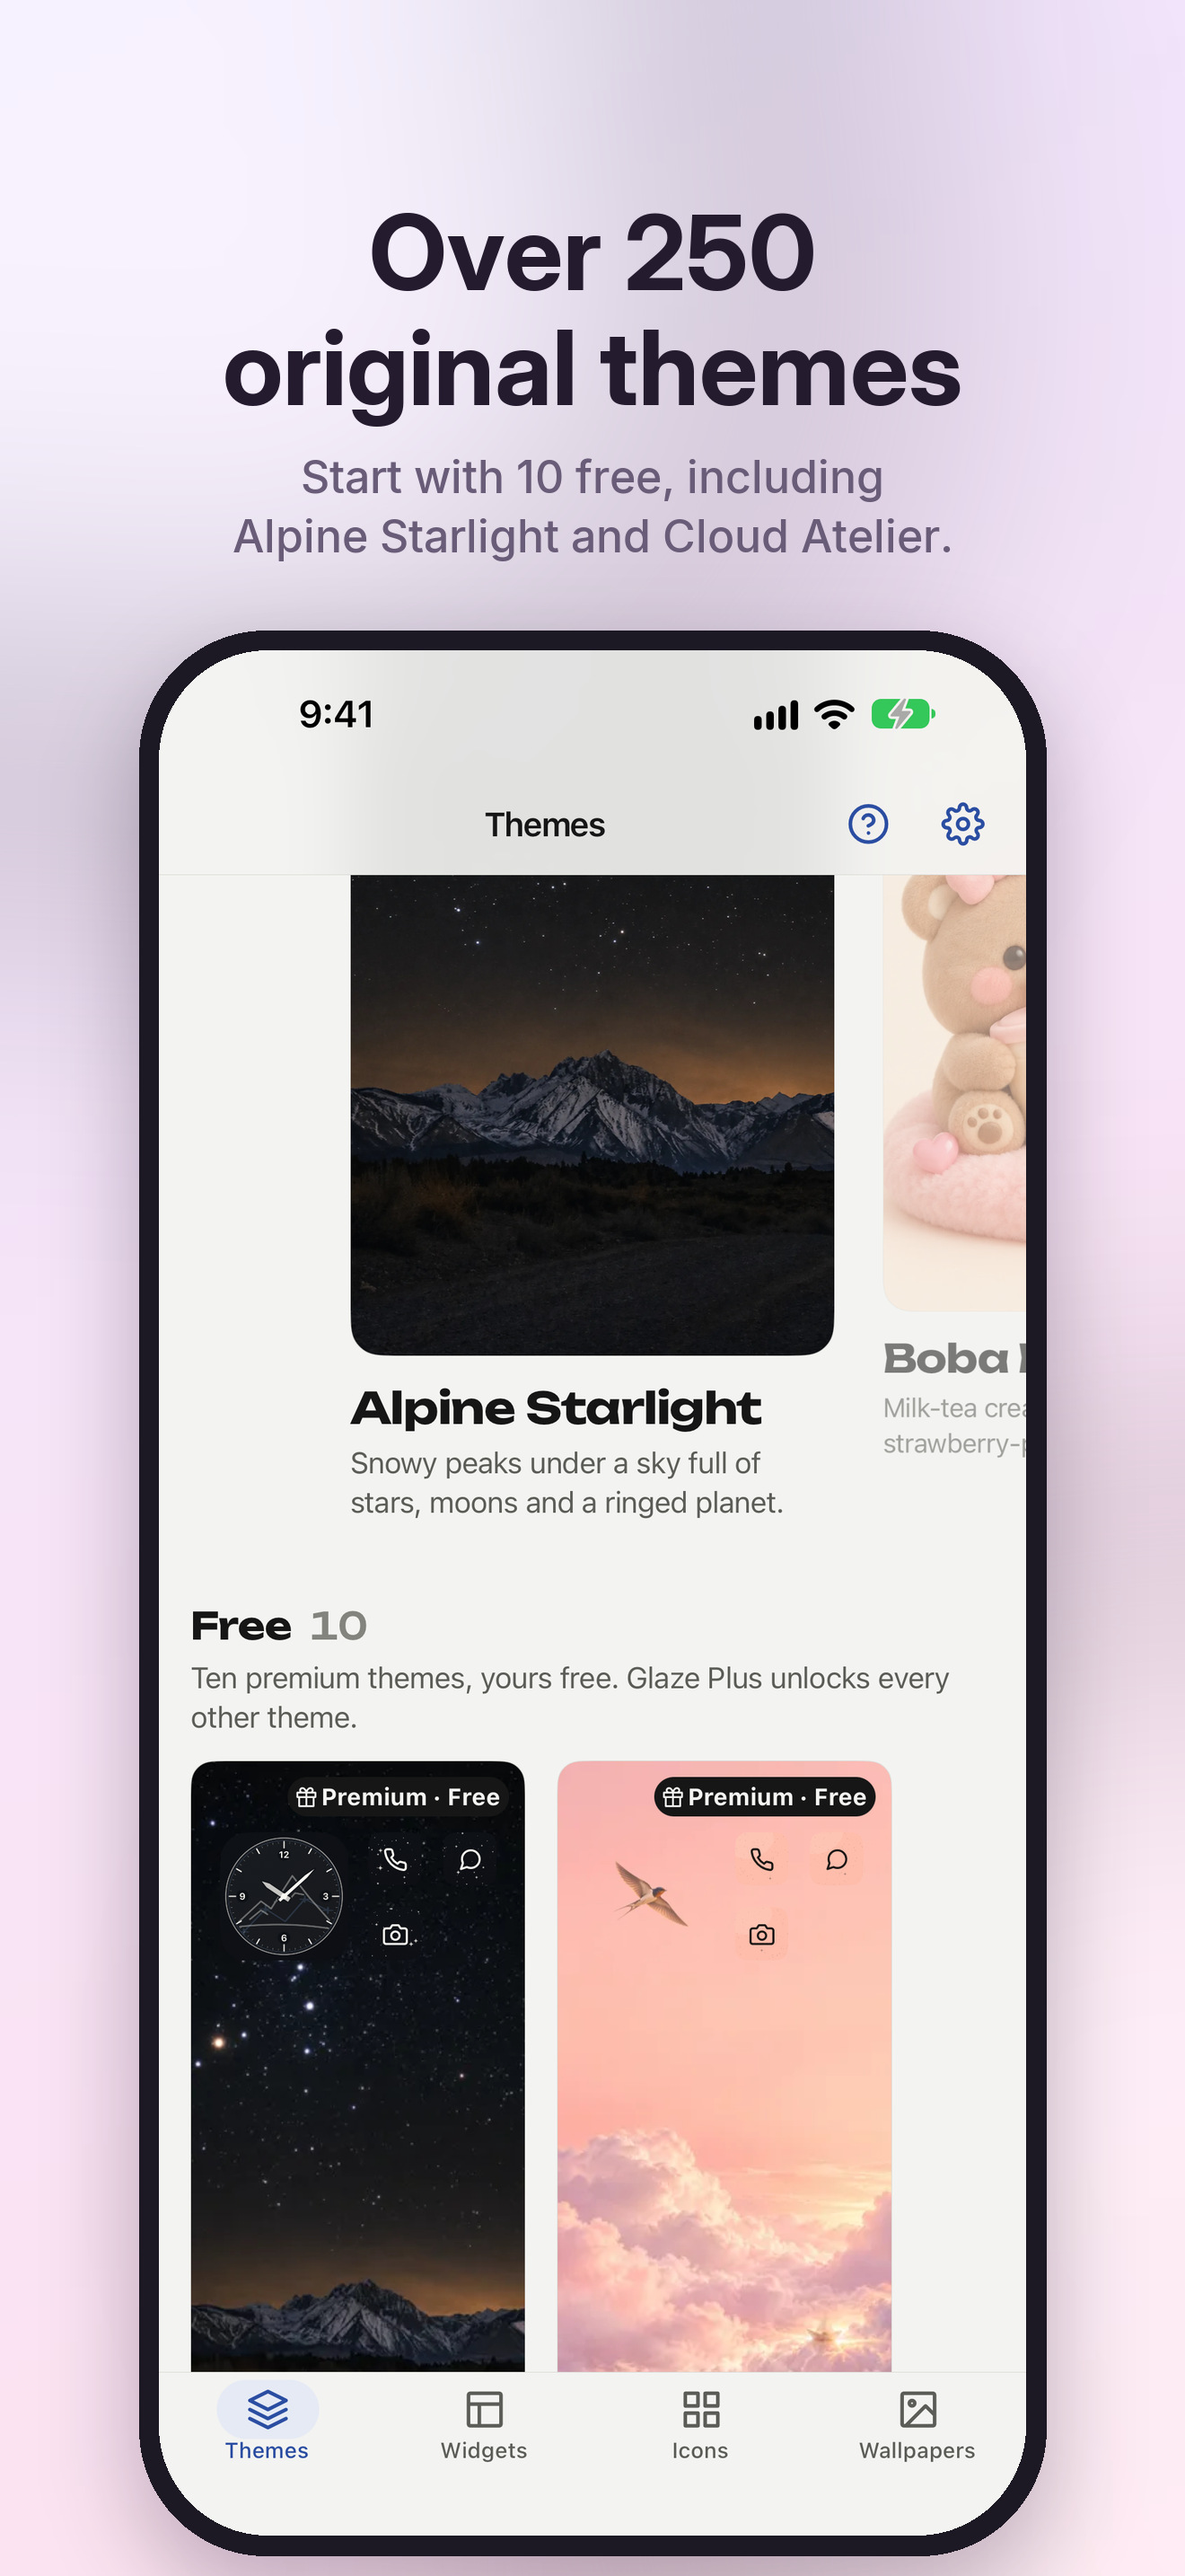
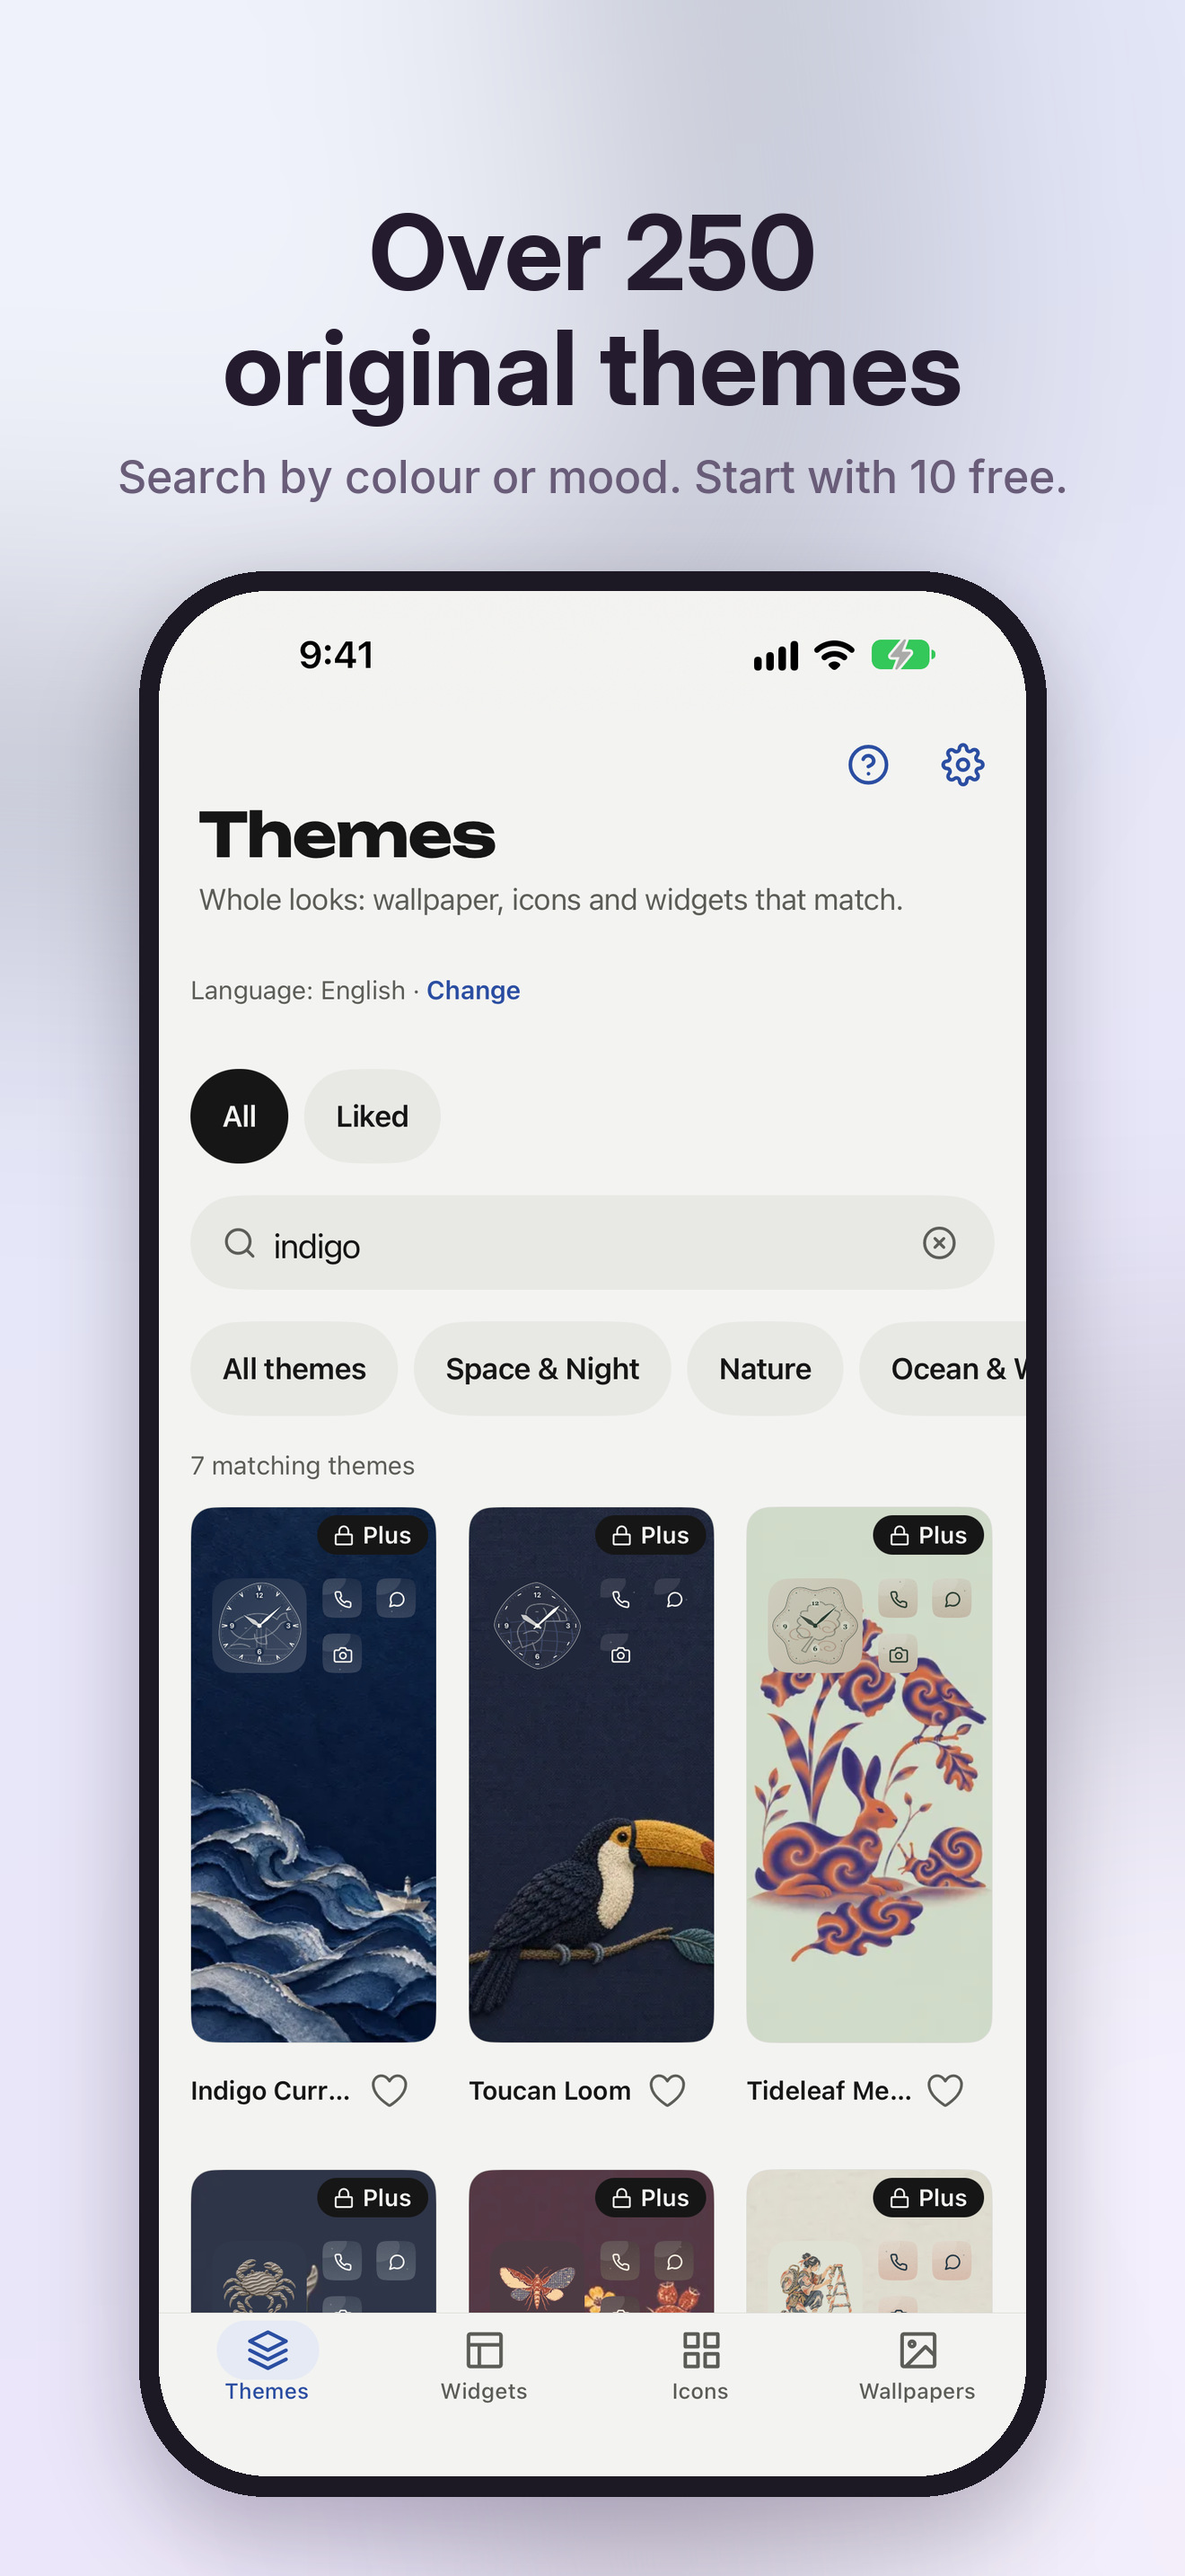
Glaze 1.0.44 store shots: shot 6 Indigo Current (indigo search), shot 7 Lavender Nocturne, new shot 8 Bamboo Ink wallpaper; eight shots, no price

diff --git a/apps/glaze/store/screenshots/README.md b/apps/glaze/store/screenshots/README.md
@@ -4,9 +4,9 @@
 on the Xcode 27 runner. Every artwork in them passes Jared's art-fit rules (`Documents/Claude/glaze-art-fit/RUBRIC.md` v2
 and `JARED_CALLS.md`); no hero-medium/large art from the themes still on old art. The Home Screens (shots 1 and 3) use
 one fit-approved Small piece per theme (`HERO` in `store/capture/home.py`). The Glaze Plus price sheet (the old shot 8)
-is dropped: Jared chose a seven-shot set for 1.0.44, so no screenshot shows a price.
+is dropped for 1.0.44 and shot 8 is now the Wallpaper screen (Jared, 25 Nov 2026), so no screenshot shows a price.
 
-Seven portrait shots for the **6.9-inch iPhone** display (1320 x 2868, RGB JPEG, quality 93, no chroma subsampling) in `6.9/`.
+Eight portrait shots for the **6.9-inch iPhone** display (1320 x 2868, RGB JPEG, quality 93, no chroma subsampling) in `6.9/`.
 Glaze is iPhone-only (`supportsTablet: false`), so no iPad set is needed, and App Store Connect scales the
 6.9-inch set down for every smaller iPhone, so no 6.5-inch set is needed either. `store/listing.json` points
 `APP_IPHONE_67` (Apple's API name for the 6.7/6.9-inch slot) at this folder.
@@ -18,8 +18,9 @@ Glaze is iPhone-only (`supportsTablet: false`), so no iPad set is needed, and Ap
 | 3 | `03-every-mood.jpg` | A look for every mood | Home Screens in Rosewater Reverie, Rainlight and Bluewing |
 | 4 | `04-use-this-theme.jpg` | Tap a theme, then tap Yes | Cloud Atelier with "Use this theme?" |
 | 5 | `05-custom-widgets.jpg` | Make it yours with Custom widgets | Widgets tab, Your artwork: Custom 1-5 with fit-approved art from Cobalt Caravan, Cloud Atelier and Alpine Starlight |
-| 6 | `06-themes.jpg` | Over 250 original themes | Themes tab: Alpine Starlight and Cloud Atelier featured, Premium · Free cards |
-| 7 | `07-matching-icons.jpg` | Matching icons for your apps | Cobalt Caravan's page: ivory icons on lapis |
+| 6 | `06-themes.jpg` | Over 250 original themes | Themes tab, a search for "indigo": Indigo Current first, then Toucan Loom, Tideleaf Meadow and more (wallpapers, clocks and icons only) |
+| 7 | `07-matching-icons.jpg` | Matching icons for your apps | Lavender Nocturne's page: ivory icons on its lavender-field wallpaper (no widget art; the Unlock bar is cropped off) |
+| 8 | `08-wallpapers.jpg` | Every theme has its wallpaper | Bamboo Ink's Wallpaper screen on the Lock Screen preview |
 
 ## Where they come from
 

diff --git a/apps/glaze/docs/STORE.md b/apps/glaze/docs/STORE.md
@@ -112,7 +112,7 @@ widget side is still found. The category can be changed with any later version.
 
 ## Screenshots (1.0.44)
 
-Seven 6.9-inch shots (1320 x 2868) in `store/screenshots/6.9/`, made by `.github/workflows/glaze-store-capture.yml`
+Eight 6.9-inch shots (1320 x 2868) in `store/screenshots/6.9/`, made by `.github/workflows/glaze-store-capture.yml`
 (real simulator captures of 1.0.44, plus Home Screens drawn from the themes' own files for shots 1 and 3). How they are made, and how to re-make them:
 `store/screenshots/README.md`. Glaze is iPhone-only, so there is no iPad set, and the 6.9-inch set covers every
 smaller iPhone.
@@ -124,8 +124,9 @@ smaller iPhone.
 | 3 | A look for every mood | Rosewater Reverie, Rainlight and Bluewing. |
 | 4 | Tap a theme, then tap Yes | Glaze puts it on your widgets, then shows the next steps. |
 | 5 | Make it yours with Custom widgets | Add your own pictures, or a favourite artwork. |
-| 6 | Over 250 original themes | Start with 10 free, including Alpine Starlight and Cloud Atelier. |
+| 6 | Over 250 original themes | Search by colour or mood. Start with 10 free. |
 | 7 | Matching icons for your apps | Every theme styles your icons to match. |
+| 8 | Every theme has its wallpaper | See it on your Lock Screen, then save it to Photos. |
 
 ### Honesty checks for the shots
 
@@ -133,7 +134,7 @@ smaller iPhone.
   before upload; if it ever drops to 250 or fewer, change the promotional text, description and shot 6.
 - **Free themes:** "10 free" = `FREE_THEME_IDS` in `src/core/freeThemes.ts` (unchanged in 1.0.44).
 - **No price in any shot** (the store localises it). 1.0.44 dropped the Glaze Plus sheet shot (Jared, 25 Nov 2026), so
-  the set is seven shots and none shows a price.
+  shot 8 is the Wallpaper screen instead, and no shot shows a price.
 - **Icons:** generic app labels and Glaze's own glyphs, never brand logos. The phone frame is a plain rounded rectangle.
 - The older sets (`assets/store/` 1290 x 2796, and the T267 HTML compositions) are out of date: do not upload them.
 
